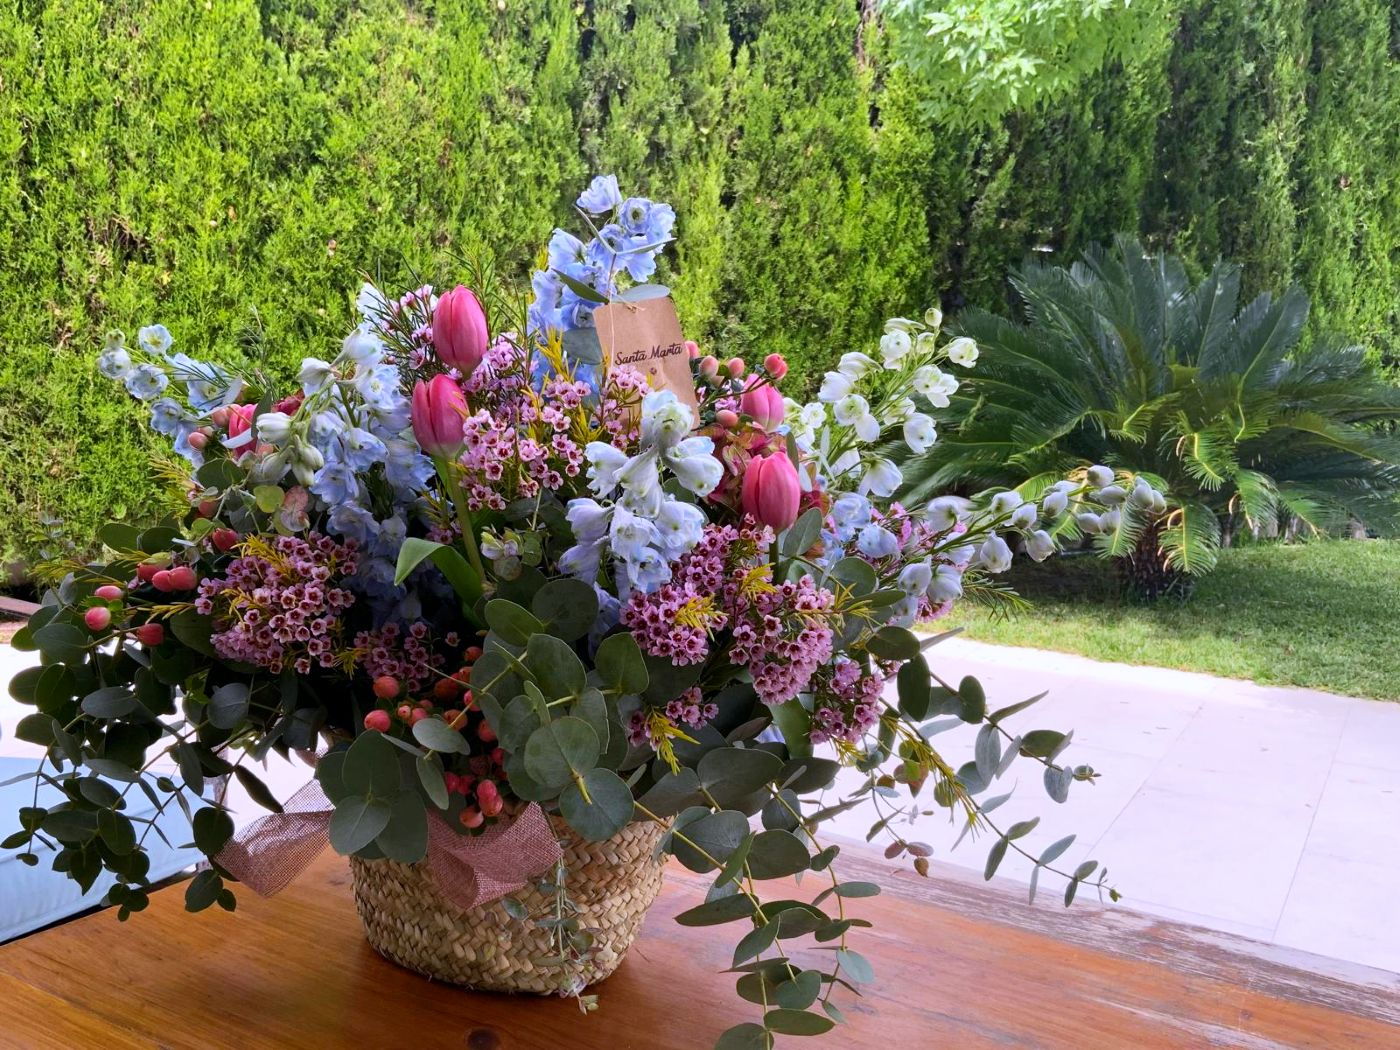
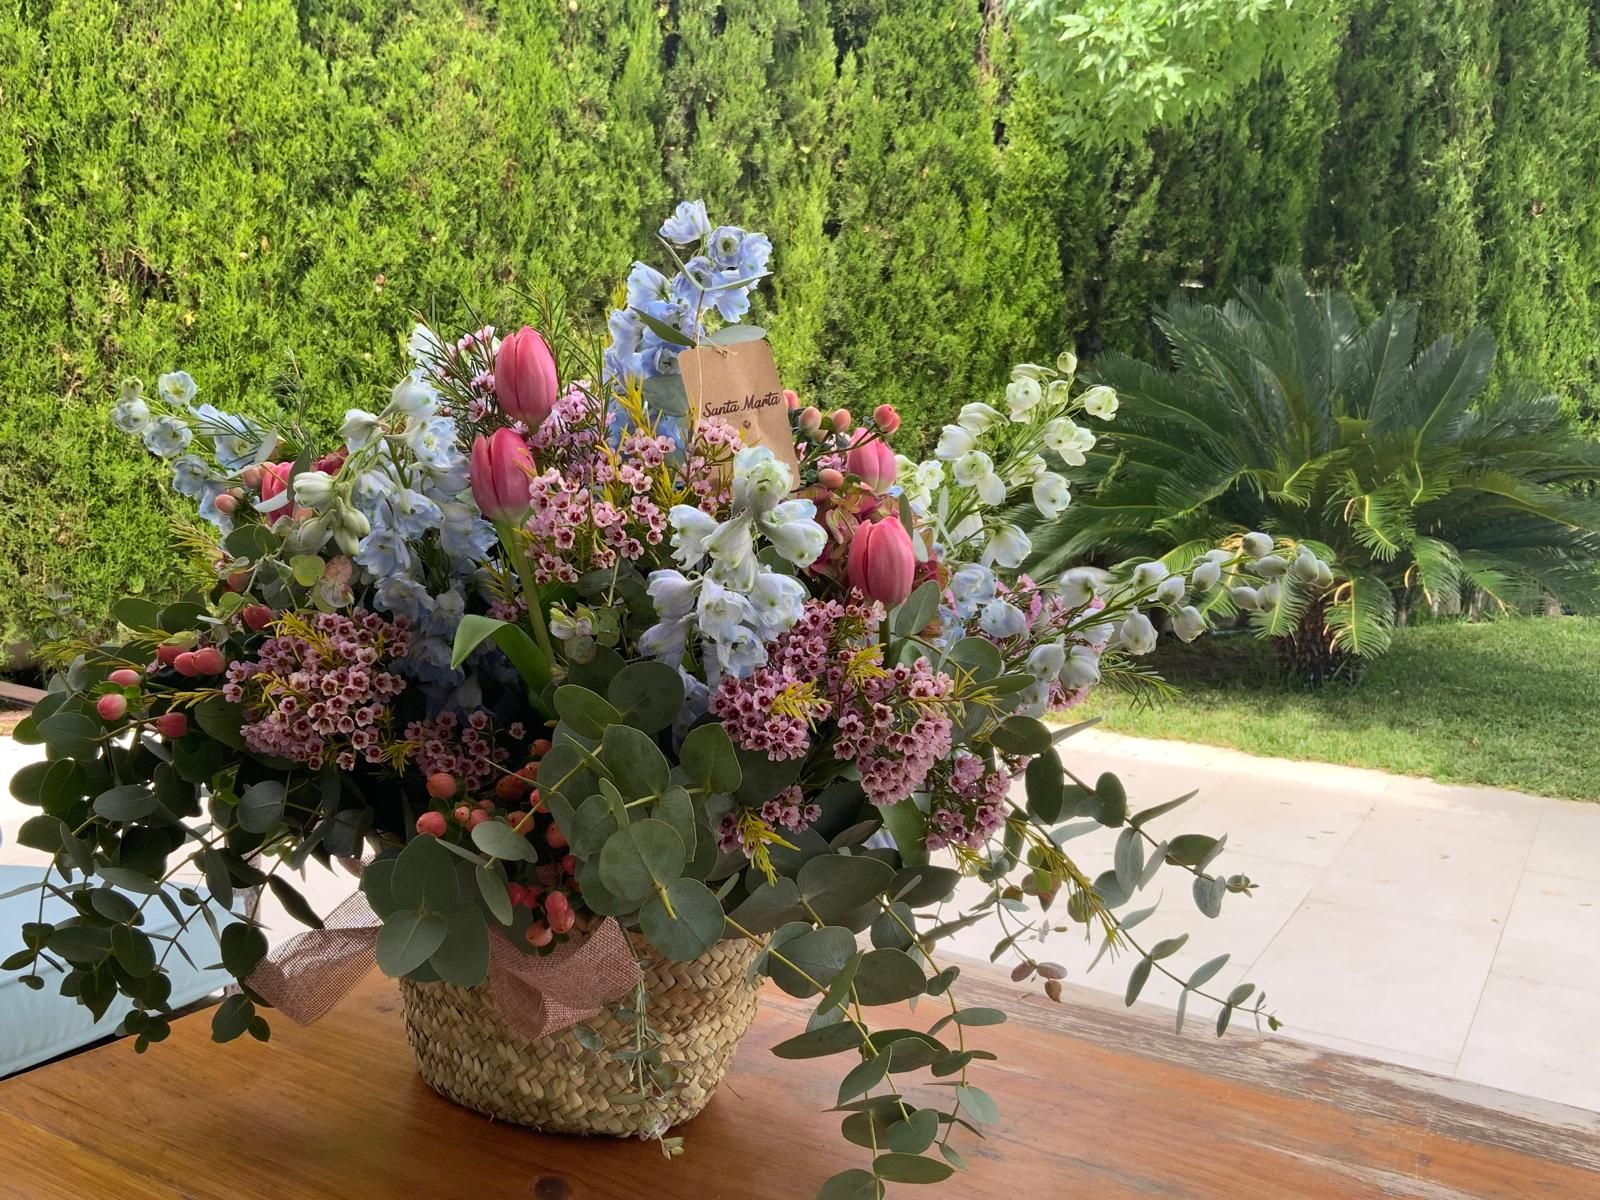
Portada con el interior de la tienda y tira de ramos menos cerrada
- La foto principal pasa a ser la sala de la tienda (el centro de peonías se veía muy cerca y saturado)
- «Ramos y flores frescas» usa la cesta de delphinium y tulipanes en un jardín, a 1600 px y sin retocar
- og:image y datos estructurados apuntan a la nueva portada

diff --git a/index.html b/index.html
@@ -11,7 +11,7 @@
 <meta property="og:type" content="website">
 <meta property="og:locale" content="es_ES">
 <!-- Imagen al compartir: cambiar la URL al dominio floressantamarta.com al publicar -->
-<meta property="og:image" content="https://kikogarciadv.github.io/floressantamarta/img/fotos/centro-peonias.jpg">
+<meta property="og:image" content="https://kikogarciadv.github.io/floressantamarta/img/fotos/portada-tienda.jpg">
 <meta name="theme-color" content="#ffffff">
 <link rel="icon" href="favicon.svg" type="image/svg+xml">
 <!-- Versión de prueba: quitar esta línea al publicar en floressantamarta.com -->
@@ -30,7 +30,7 @@
   "foundingDate": "1945",
   "sameAs": ["https://www.instagram.com/santamartafloristas/"],
   "description": "Floristería en el centro de Córdoba desde hace más de 70 años. Ramos, bodas, eventos, Semana Santa, coronas y plantas. Miembro de Interflora.",
-  "image": "https://www.floressantamarta.com/img/fotos/centro-peonias.jpg",
+  "image": "https://www.floressantamarta.com/img/fotos/portada-tienda.jpg",
   "telephone": "+34957470818",
   "hasMap": "https://www.google.com/maps/search/?api=1&query=Flores+Santa+Marta+Calle+Osario+20+C%C3%B3rdoba",
   "email": "floressantamarta@hotmail.com",
@@ -130,7 +130,7 @@
 
   <!-- Portada -->
   <section class="banner banner-hero">
-    <img src="img/fotos/centro-peonias.jpg" width="1800" height="1224" alt="Centro de peonías, rosas y lilium hecho en la floristería" fetchpriority="high">
+    <img src="img/fotos/portada-tienda.jpg" width="1536" height="1700" alt="Interior de la tienda de la calle Osario, con plantas y flores" fetchpriority="high">
     <div class="banner-content">
       <p class="kicker">Floristas en Córdoba desde 1945</p>
       <h1>Flores Santa Marta</h1>
@@ -164,7 +164,7 @@
   <!-- Colecciones -->
   <section class="tiles" aria-label="Qué hacemos">
     <a class="tile tile-wide" id="flores" href="flores.html">
-      <img src="img/fotos/cesta-delphinium.jpg" width="1341" height="1400" alt="Cesta de delphinium, lisianthus y paniculata" loading="lazy">
+      <img src="img/fotos/cesta-delphinium-tulipanes.jpg" width="1600" height="1200" alt="Cesta de delphinium, tulipanes y flor de cera en un jardín" loading="lazy" style="object-position: center 30%">
       <span class="tile-content">
         <span class="tile-title">Ramos y flores frescas</span>
         <span class="tile-text">Flor de España, Holanda y Colombia</span>

diff --git a/flores.html b/flores.html
@@ -256,7 +256,7 @@
       <img src="img/fotos/ramo-peonias.jpg" width="1276" height="1400" alt="Ramo de peonías y rosas" loading="lazy">
       <img src="img/fotos/ramo-lilium-rosa.jpg" width="1161" height="1400" alt="Ramo de lilium, astilbe y flor de temporada" loading="lazy">
       <img src="img/fotos/ramo-rosas-amarillas.jpg" width="1400" height="1338" alt="Ramo de rosas amarillas" loading="lazy">
-      <img src="img/fotos/cesta-delphinium-tulipanes.jpg" width="1400" height="1050" alt="Cesta de delphinium, tulipanes y flor de cera" loading="lazy">
+      <img src="img/fotos/cesta-delphinium-tulipanes.jpg" width="1600" height="1200" alt="Cesta de delphinium, tulipanes y flor de cera" loading="lazy">
       <img src="img/fotos/cesta-limonium-eucalipto.jpg" width="865" height="1024" alt="Cesta de limonium y eucalipto con lazo" loading="lazy">
       <img src="img/fotos/centro-vela-crisantemos.jpg" width="1400" height="1149" alt="Centro de mesa con vela, crisantemos y flor de temporada" loading="lazy">
       <img src="img/fotos/flores-tienda-agapantos.jpg" width="1050" height="1400" alt="Hortensias, agapantos y flor variada en la tienda" loading="lazy">
